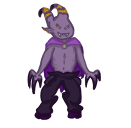
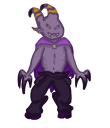
Ahora hay un menú de pausa desde el que se puede consultar la guía

diff --git a/src/main/resources/static/src/theForge_localScene.js b/src/main/resources/static/src/theForge_localScene.js
@@ -293,6 +293,7 @@ sc_juegoLocal.create = function() {
         temp = "Elfo";
     }
     sc_juegoLocal.monstruo1 = sc_juegoLocal.monstruos.create(72, 433, 'M'+temp+'D');
+    sc_juegoLocal.monstruo1.setSize(110,128);
     sc_juegoLocal.monstruo1.faction = temp;
     if (cont.p2.ch.slice(2,3) == 'H') {
         temp = "Hielo";
@@ -300,6 +301,7 @@ sc_juegoLocal.create = function() {
         temp = "Elfo";
     }
     sc_juegoLocal.monstruo2 = sc_juegoLocal.monstruos.create(728, 433, 'M'+temp+'D').setFlipX(true);
+    sc_juegoLocal.monstruo1.setSize(110,128);
     sc_juegoLocal.monstruo2.faction = temp;
 
     //mejorar el disconnect para los monstruos no estaría de más
@@ -587,12 +589,31 @@ sc_juegoLocal.create = function() {
     sc_juegoLocal.botonPausa.setInteractive({cursor: "pointer"});
     sc_juegoLocal.botonPausa.on('pointerup', function() {
         if (!sc_juegoLocal.botonPausa.paused) {
-            sc_juegoLocal.pausedOverlay.setTexture('pausedOverlay');
-            sc_juegoLocal.botonPausa.paused = true;
+            pause();
         } else {
-            sc_juegoLocal.pausedOverlay.setTexture('empty');
-            sc_juegoLocal.botonPausa.paused = false;}
+            unPause();
+        }
     });
+
+    //Crear los objetos de pausa desactivados
+    sc_juegoLocal.pausemenu = sc_juegoLocal.add.image(400, 300, 'pausemenu');
+    sc_juegoLocal.pauseguidebutton = sc_juegoLocal.add.image(400, 200, 'pauseguidebutton');
+    sc_juegoLocal.pausequitbutton = sc_juegoLocal.add.image(400, 300, 'pausequitbutton');
+    sc_juegoLocal.pauseresumebutton = sc_juegoLocal.add.image(400, 400, 'pauseresumebutton');
+
+    sc_juegoLocal.pausequitmenu = sc_juegoLocal.add.image(400, 300, 'pausequitmenu');
+    sc_juegoLocal.pausequitbutton2 = sc_juegoLocal.add.image(400, 290, 'pausequitbutton');
+    sc_juegoLocal.pausecancelbutton = sc_juegoLocal.add.image(400, 350, 'pausecancelbutton');
+
+    sc_juegoLocal.pausemenu.setActive(false).setVisible(false);
+    sc_juegoLocal.pauseguidebutton.setActive(false).setVisible(false).on('pointerup', showPauseGuide);
+    sc_juegoLocal.pausequitbutton.setActive(false).setVisible(false).on('pointerup', showQuitMenu);
+    sc_juegoLocal.pauseresumebutton.setActive(false).setVisible(false).on('pointerup', unPause);
+
+    sc_juegoLocal.pausequitmenu.setActive(false).setVisible(false);
+    sc_juegoLocal.pausequitbutton2.setActive(false).setVisible(false).on('pointerup', quitGame);
+    sc_juegoLocal.pausecancelbutton.setActive(false).setVisible(false).on('pointerup', hideQuitMenu);
+
 
     sc_juegoLocal.victory = undefined; //Importante
 
@@ -885,6 +906,62 @@ sc_juegoLocal.update = function() {
         }
     });
     
+}
+
+function pause() {
+    sc_juegoLocal.pausedOverlay.setTexture('pausedOverlay');
+    
+    sc_juegoLocal.pausemenu.setActive(true).setVisible(true);
+    sc_juegoLocal.pauseguidebutton.setActive(true).setVisible(true).setInteractive({cursor: "pointer"});
+    sc_juegoLocal.pausequitbutton.setActive(true).setVisible(true).setInteractive({cursor: "pointer"});
+    sc_juegoLocal.pauseresumebutton.setActive(true).setVisible(true).setInteractive({cursor: "pointer"});
+
+    sc_juegoLocal.botonPausa.paused = true;
+}
+
+function showQuitMenu() {
+    sc_juegoLocal.pauseguidebutton.removeInteractive();
+    sc_juegoLocal.pausequitbutton.removeInteractive();
+    sc_juegoLocal.pauseresumebutton.removeInteractive();
+
+    sc_juegoLocal.pausequitmenu.setActive(true).setVisible(true);
+    sc_juegoLocal.pausequitbutton2.setActive(true).setVisible(true).setInteractive({cursor: "pointer"});
+    sc_juegoLocal.pausecancelbutton.setActive(true).setVisible(true).setInteractive({cursor: "pointer"});
+}
+
+function hideQuitMenu() {
+    
+    sc_juegoLocal.pauseguidebutton.setInteractive({cursor: "pointer"});
+    sc_juegoLocal.pausequitbutton.setInteractive({cursor: "pointer"});
+    sc_juegoLocal.pauseresumebutton.setInteractive({cursor: "pointer"});
+
+    sc_juegoLocal.pausequitmenu.setActive(false).setVisible(false);
+    sc_juegoLocal.pausequitbutton2.setActive(false).setVisible(false).removeInteractive();
+    sc_juegoLocal.pausecancelbutton.setActive(false).setVisible(false).removeInteractive();
+}
+
+function unPause() {
+    sc_juegoLocal.pausedOverlay.setTexture('empty');
+        
+    sc_juegoLocal.pausemenu.setActive(false).setVisible(false);
+    sc_juegoLocal.pauseguidebutton.setActive(false).setVisible(false).removeInteractive();
+    sc_juegoLocal.pausequitbutton.setActive(false).setVisible(false).removeInteractive();
+    sc_juegoLocal.pauseresumebutton.setActive(false).setVisible(false).removeInteractive();
+
+    sc_juegoLocal.pausequitmenu.setActive(false).setVisible(false);
+    sc_juegoLocal.pausequitbutton2.setActive(false).setVisible(false).removeInteractive();
+    sc_juegoLocal.pausecancelbutton.setActive(false).setVisible(false).removeInteractive();
+    
+    sc_juegoLocal.botonPausa.paused = false;
+}
+
+function quitGame() {
+    sc_juegoLocal.scene.start("MenuPrincipal");
+}
+
+function showPauseGuide() {
+    cont.guiaIngame = true;
+    sc_juegoLocal.scene.switch('Guia');
 }
 
 //Función initAnimations: Aquí se inicializan todas las animaciones de los personajes.

diff --git a/src/main/resources/static/src/theForge_Guia.js b/src/main/resources/static/src/theForge_Guia.js
@@ -10,9 +10,18 @@ var left, right, escape;
 
 var btnRight, btnLeft, cross;
 
+var ingame;
+
 
 sc_Guia.create = function(escena)
 {
+    if (cont.guiaIngame) {
+        ingame = true;
+        cont.guiaIngame = false;
+    } else {
+        ingame = false;
+    }
+
     array = new Array();
     pos = 0;
     array.push(this.add.image(0, 0, "historia").setOrigin(0, 0));
@@ -32,7 +41,12 @@ sc_Guia.create = function(escena)
     cross = this.add.image(650, 20, "cruz2").setOrigin(0, 0);
     cross.setInteractive({cursor: "pointer"}).on("pointerdown", function(pointer)
     {
-        sc_Guia.scene.start("MenuPrincipal");
+        if (ingame) {
+            sc_Guia.scene.stop("Guia");
+            sc_Guia.scene.wake("JuegoLocal");
+        } else {
+            sc_Guia.scene.start("MenuPrincipal");
+        }
     })
 
     
@@ -102,7 +116,12 @@ sc_Guia.update = function(time, delta)
         
     if (Phaser.Input.Keyboard.JustDown(escape))
         {
-            sc_Guia.scene.start("MenuPrincipal");
+            if (ingame) {
+                sc_Guia.scene.stop("Guia");
+                sc_Guia.scene.wake("JuegoLocal");
+            } else {
+                sc_Guia.scene.start("MenuPrincipal");
+            }
         }
 }
 

diff --git a/src/main/resources/static/src/theForge_Preloader.js b/src/main/resources/static/src/theForge_Preloader.js
@@ -250,6 +250,12 @@ sc_Preloader.preload = function()
     this.load.image('1de2', '../assets/game/1de2.png');
     this.load.image('botonPausa', '../assets/game/botonPausa.png');
     this.load.image('pausedOverlay', '../assets/game/pausedOverlay.png');
+    this.load.image('pausemenu', '../assets/game/pausemenu.png');
+    this.load.image('pausequitmenu', '../assets/game/pausequitmenu.png');
+    this.load.image('pauseguidebutton', '../assets/game/pauseguidebutton.png');
+    this.load.image('pausequitbutton', '../assets/game/pausequitbutton.png');
+    this.load.image('pauseresumebutton', '../assets/game/pauseresumebutton.png');
+    this.load.image('pausecancelbutton', '../assets/game/pausecancelbutton.png');
 
     this.load.image('guideMarker', '../assets/game/guideMarker.png');
 

diff --git a/src/main/resources/static/src/theForge_global.js b/src/main/resources/static/src/theForge_global.js
@@ -34,7 +34,8 @@ var cont = {
     ch: 'SSHielo1',
     name: null,
     lastChatMessage: -1,
-    lGuia: true
+    lGuia: true,
+    guiaIngame: false
 }
 
 //funciones de música por aquí
